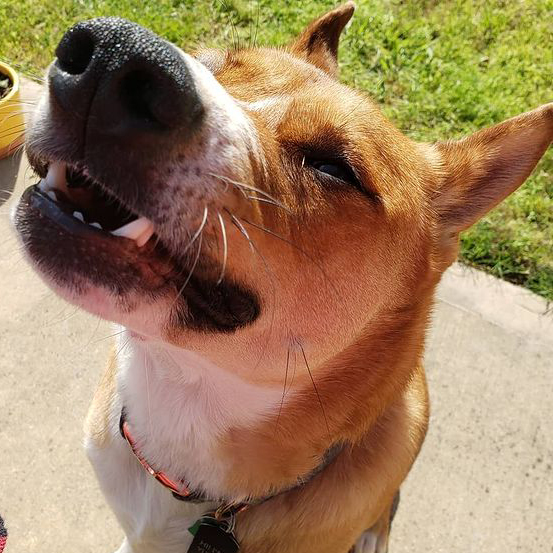
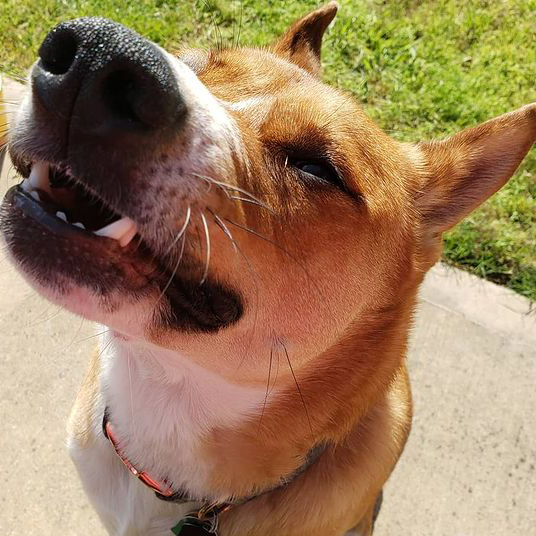
Updated 5x5 prototype

diff --git a/image-loader.js b/image-loader.js
@@ -1,21 +1,30 @@
 
 const images = [
-    { x: 1, y: 1, image: require('./snoots/1-1-001.jpg') },
-    { x: 1, y: 2, image: require('./snoots/2-1-001.jpg') },
-    { x: 1, y: 3, image: require('./snoots/3-1-001.jpg') },
-    { x: 1, y: 4, image: require('./snoots/4-1-001.jpg') },
-    { x: 2, y: 1, image: require('./snoots/1-2-001.jpg') },
-    { x: 2, y: 2, image: require('./snoots/2-2-001.jpg') },
-    { x: 2, y: 3, image: require('./snoots/3-2-001.jpg') },
-    { x: 2, y: 4, image: require('./snoots/4-2-001.jpg') },
-    { x: 3, y: 1, image: require('./snoots/1-3-001.jpg') },
-    { x: 3, y: 2, image: require('./snoots/2-3-001.jpg') },
-    { x: 3, y: 3, image: require('./snoots/3-3-001.jpg') },
-    { x: 3, y: 4, image: require('./snoots/4-3-001.jpg') },
-    { x: 4, y: 1, image: require('./snoots/1-4-001.jpg') },
-    { x: 4, y: 2, image: require('./snoots/2-4-001.jpg') },
-    { x: 4, y: 3, image: require('./snoots/3-4-001.jpg') },
-    { x: 4, y: 4, image: require('./snoots/4-4-001.jpg') },
+{ x: 1, y: 1, image: require('./snoots/1-1-001.jpg') },
+{ x: 1, y: 2, image: require('./snoots/2-1-001.jpg') },
+{ x: 1, y: 3, image: require('./snoots/3-1-001.jpg') },
+{ x: 1, y: 4, image: require('./snoots/4-1-001.jpg') },
+{ x: 1, y: 5, image: require('./snoots/5-1-001.jpg') },
+{ x: 2, y: 1, image: require('./snoots/1-2-001.jpg') },
+{ x: 2, y: 2, image: require('./snoots/2-2-001.jpg') },
+{ x: 2, y: 3, image: require('./snoots/3-2-001.jpg') },
+{ x: 2, y: 4, image: require('./snoots/4-2-001.jpg') },
+{ x: 2, y: 5, image: require('./snoots/5-2-001.jpg') },
+{ x: 3, y: 1, image: require('./snoots/1-3-001.jpg') },
+{ x: 3, y: 2, image: require('./snoots/2-3-001.jpg') },
+{ x: 3, y: 3, image: require('./snoots/3-3-001.jpg') },
+{ x: 3, y: 4, image: require('./snoots/4-3-001.jpg') },
+{ x: 3, y: 5, image: require('./snoots/5-3-001.jpg') },
+{ x: 4, y: 1, image: require('./snoots/1-4-001.jpg') },
+{ x: 4, y: 2, image: require('./snoots/2-4-001.jpg') },
+{ x: 4, y: 3, image: require('./snoots/3-4-001.jpg') },
+{ x: 4, y: 4, image: require('./snoots/4-4-001.jpg') },
+{ x: 4, y: 5, image: require('./snoots/5-4-001.jpg') },
+{ x: 5, y: 1, image: require('./snoots/1-5-001.jpg') },
+{ x: 5, y: 2, image: require('./snoots/2-5-001.jpg') },
+{ x: 5, y: 3, image: require('./snoots/3-5-001.jpg') },
+{ x: 5, y: 4, image: require('./snoots/4-5-001.jpg') },
+{ x: 5, y: 5, image: require('./snoots/5-5-001.jpg') },
 ]
 
 export const loadImageFromCoordinates = (x, y) => {
@@ -23,4 +32,14 @@ export const loadImageFromCoordinates = (x, y) => {
 
     // TODO: handle multiple matches or no matches
     return matches[0].image;
+}
+
+
+const generateLoader = () => {
+    for (var i = 1; i < 6; i++) {
+        for (var j = 1; j < 6; j++) {
+            console.log(`{   x: ${i},   y: ${j},       image: require('./snoots/${j}-${i}-001.jpg')},`)
+        }
+    }
+
 }

diff --git a/App.js b/App.js
@@ -3,7 +3,7 @@ import React, { useState } from 'react';
 import { Image, StyleSheet, Text, TouchableHighlight, View } from 'react-native';
 import { loadImageFromCoordinates } from './image-loader';
 
-const CELLS = 4;
+const CELLS = 5;
 
 const getCell = (width, offset) => {
   const segmentWidth = width / CELLS;
@@ -63,7 +63,7 @@ const styles = StyleSheet.create({
     justifyContent: 'center',
   },
   imagestyle: {
-    width: 500,
-    height: 500
+    width: 400,
+    height: 400
   }
 });
